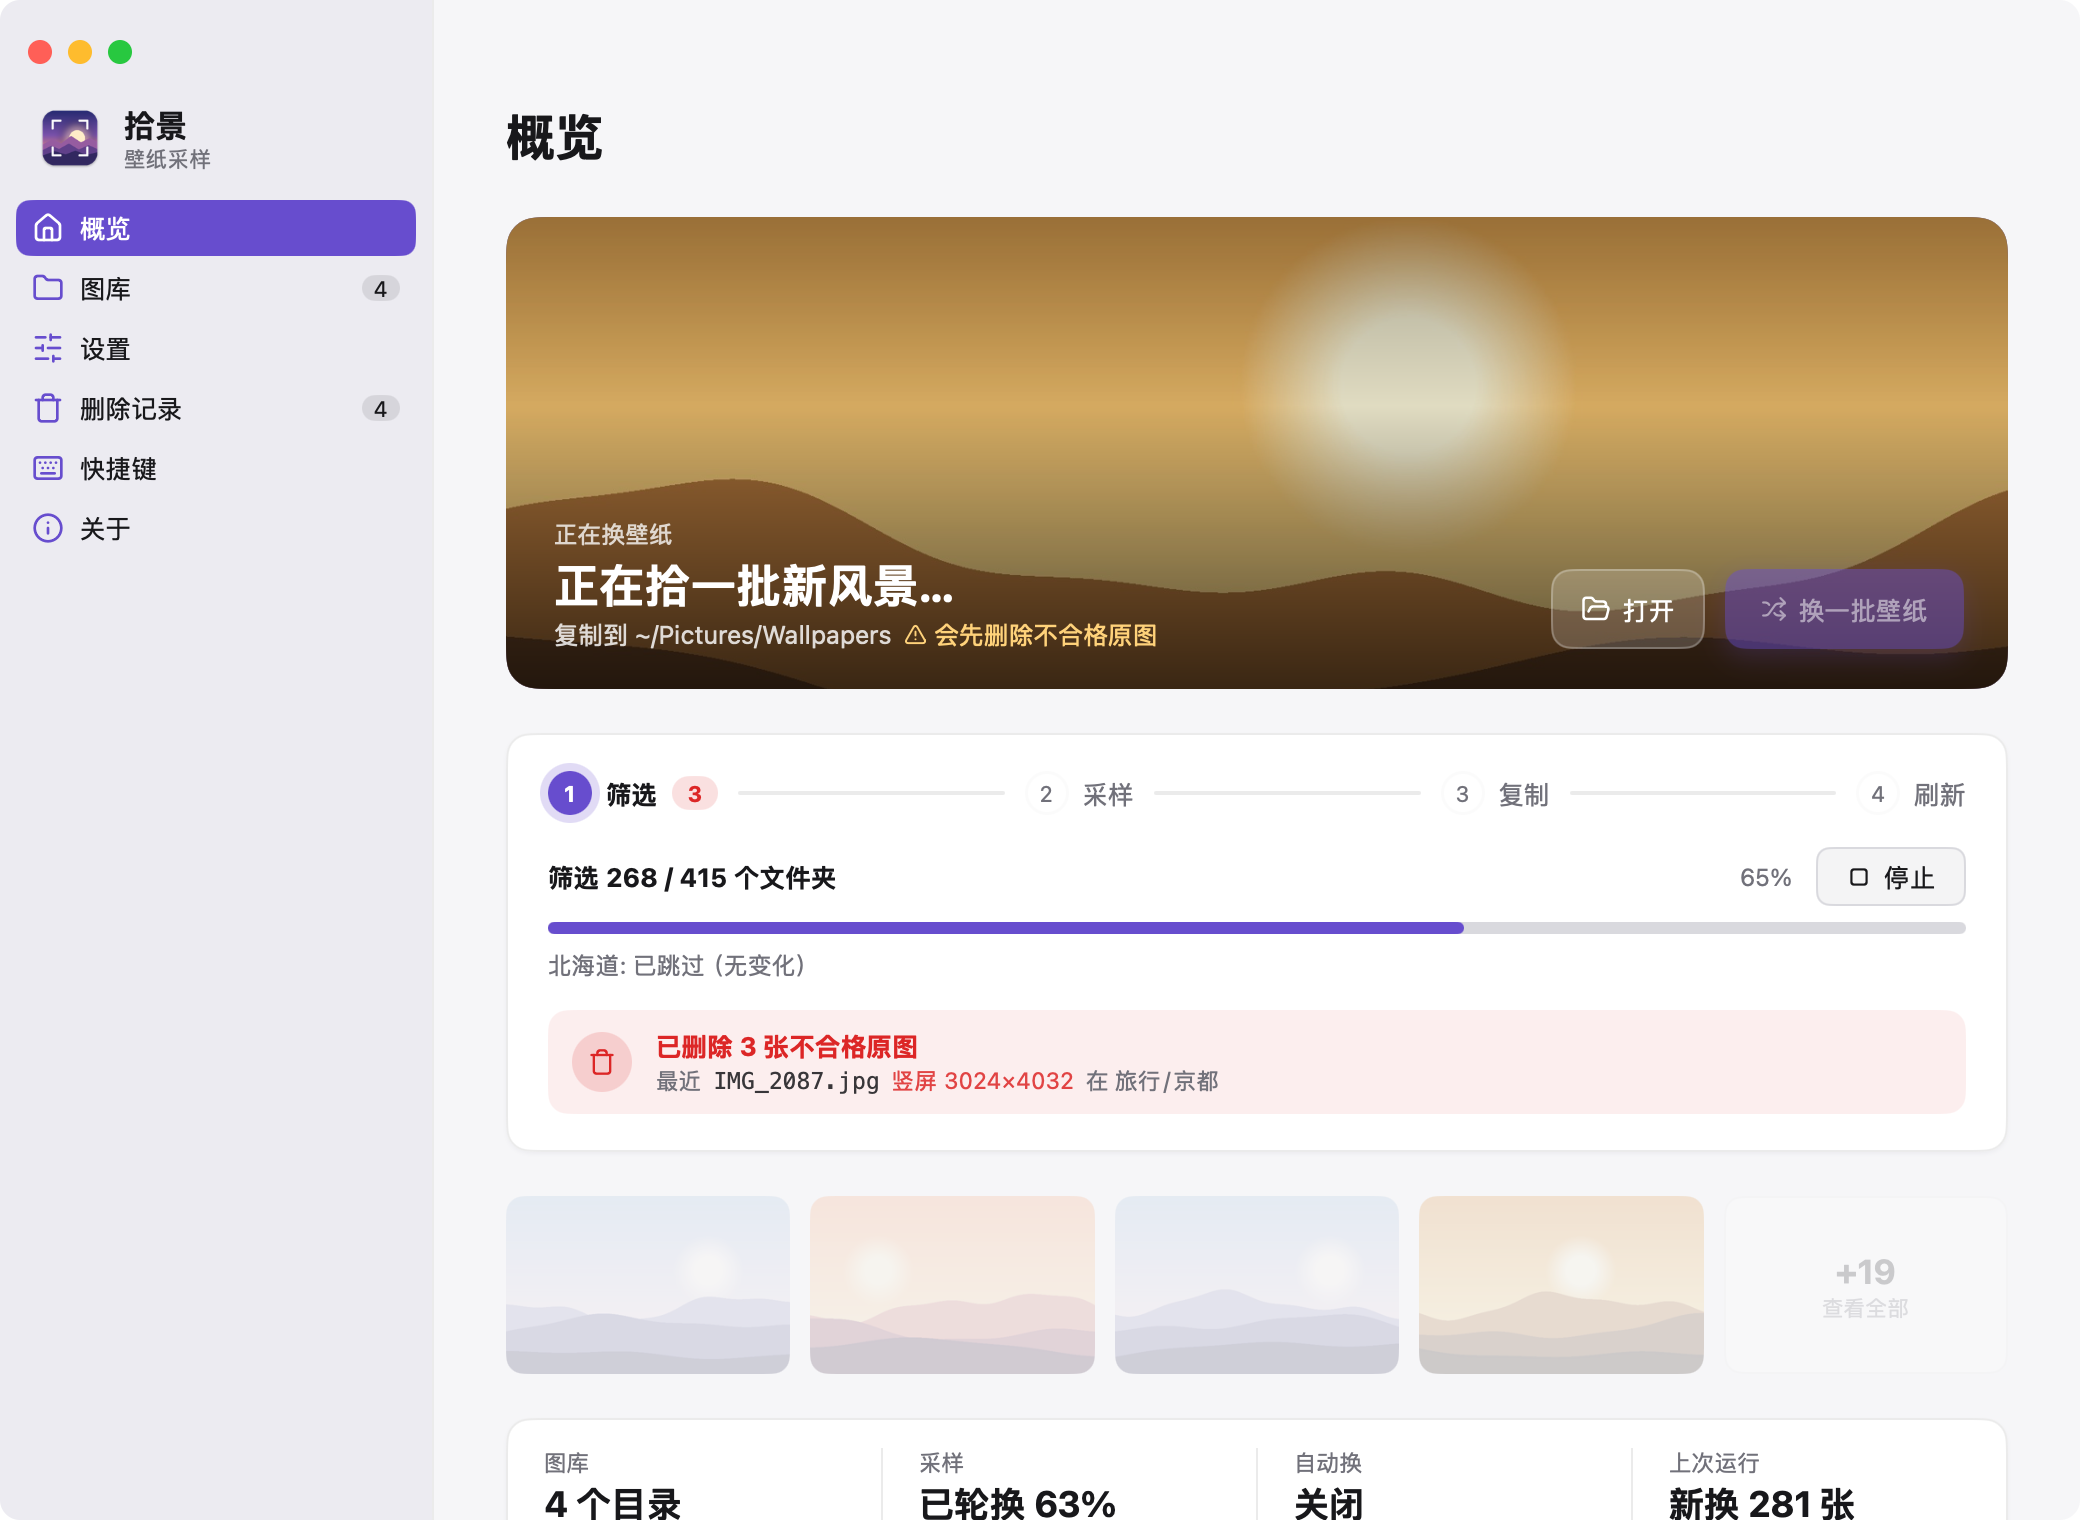
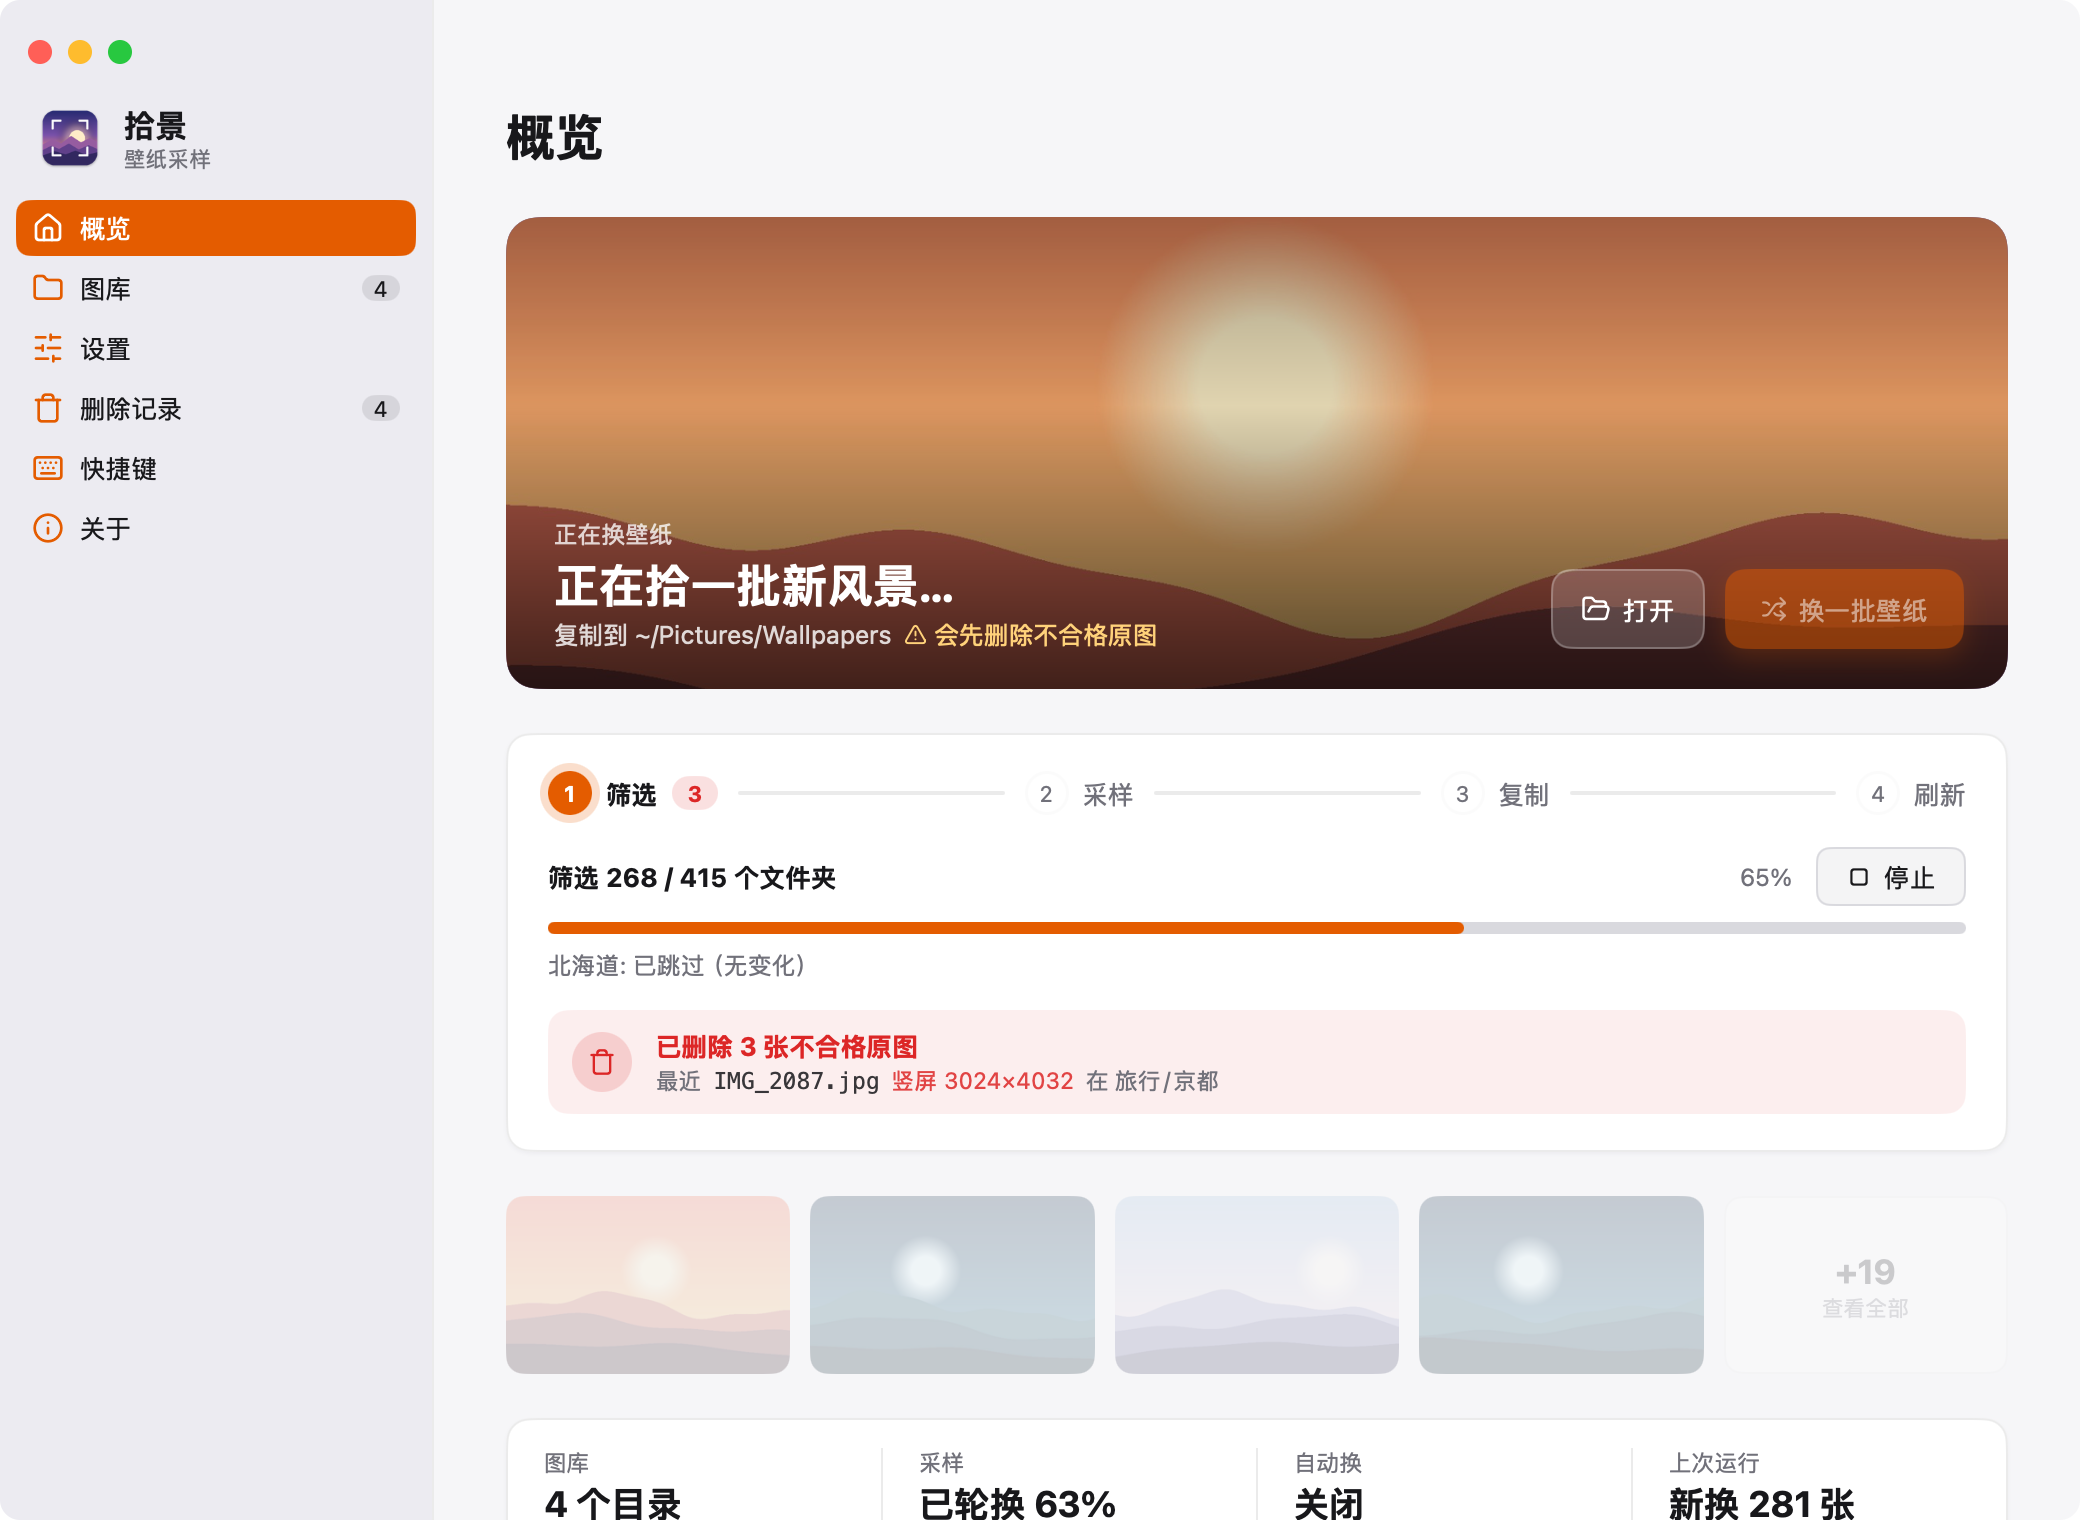
feat(拾景): 强调色改成橙色（macOS 和 iOS 一起），截图重拍，版本 v0.3.11

diff --git a/desktop/theme.go b/desktop/theme.go
@@ -4,7 +4,7 @@ import (
 	"github.com/egoist/mygo/ui"
 )
 
-// 品牌色取自应用图标：暮色紫做主色，太阳的暖黄做点缀。
+// 强调色是橙色（用户喜欢，v0.3.11 起；iOS 的 AccentColor 要保持一致）。暮色紫只用在横幅插画里，取自应用图标。
 var (
 	sunGlow   = ui.Hex("#FDE7B8")
 	duskTop   = ui.Hex("#2A2470")
@@ -25,13 +25,15 @@ const (
 func applyTheme(c *ui.Context) *ui.Theme {
 	t := *c.Theme()
 	if t.Dark {
-		t.Accent = ui.Oklch(0.62, 0.17, 288)
-		t.AccentHover = ui.Oklch(0.67, 0.17, 288)
-		t.AccentPressed = ui.Oklch(0.57, 0.17, 288)
+		// #E56900：深色底上对比度约 5:1，白字约 3.3:1（按钮文字是粗体，够用）
+		t.Accent = ui.Oklch(0.66, 0.18, 50)
+		t.AccentHover = ui.Oklch(0.71, 0.17, 52)
+		t.AccentPressed = ui.Oklch(0.61, 0.18, 48)
 	} else {
-		t.Accent = ui.Oklch(0.52, 0.19, 287)
-		t.AccentHover = ui.Oklch(0.47, 0.19, 287)
-		t.AccentPressed = ui.Oklch(0.43, 0.18, 287)
+		// #E45C00：白字约 3.6:1；再浅就发黄、白字看不清
+		t.Accent = ui.Oklch(0.64, 0.19, 47)
+		t.AccentHover = ui.Oklch(0.60, 0.19, 46)
+		t.AccentPressed = ui.Oklch(0.56, 0.18, 45)
 	}
 	t.AccentText = ui.RGB(255, 255, 255)
 	t.Focus = t.Accent.Alpha(0.5)

diff --git a/CLAUDE.md b/CLAUDE.md
@@ -63,7 +63,7 @@ NAS/网络卷上同步来的文件经常带有 `SF_ARCHIVED`（superuser-only）
 ### 11. 拾景（`desktop/`）特有的注意点
 - 依赖 MyGo v0.8.x（0.x 阶段，小版本升级可能改 API）。升级前读 `desktop/.agents/skills/mygo-maintenance/SKILL.md`，用 `go tool mygo migrate-ui .` 预览迁移；改完跑 `go tool mygo vet .` 和 `CGO_ENABLED=0 go test ./...`。
 - 配置、增量状态、删除日志、窗口位置都在 `~/Library/Application Support/拾景/`，不是仓库目录（`.app` 位置不固定，不能像 Python 版那样相对脚本目录找文件）。状态文件故意不和 Python 版共享。改名前叫「壁纸工具」，`main.go` 启动时会用 `core.MigrateDataDir` 把旧目录搬过来（新目录已存在就不动）。以后再改 `appName` 也要照此迁移，否则用户配置会"丢"。
-- 窗口用 `TitleBarHiddenInset` + `VibrancySidebar`：侧边栏顶部和内容区顶部各留了一条 `DragWindow()` 的拖拽区，侧边栏背景透明才能透出毛玻璃（`c.Vibrancy()` 为 false 时退回纯色）。配色和通用组件（`panel`/`group`/`settingRow`/`sceneArt` 插画）集中在 `theme.go`。
+- 窗口用 `TitleBarHiddenInset` + `VibrancySidebar`：侧边栏顶部和内容区顶部各留了一条 `DragWindow()` 的拖拽区，侧边栏背景透明才能透出毛玻璃（`c.Vibrancy()` 为 false 时退回纯色）。配色和通用组件（`panel`/`group`/`settingRow`/`sceneArt` 插画）集中在 `theme.go`。强调色是橙色（用户定的，v0.3.11 起：浅色 #E45C00、深色 #E56900），改的话 iOS 的 `Assets.xcassets/AccentColor` 要一起改；横幅插画的暮色紫来自应用图标，不跟强调色走。
 - 概览页缩略图由 `thumbs.go` 的 `scanWallpapers` 在后台解码缩小，`Bitmap` 回主线程再建；只读本地 `dest_dir`，运行结束 `wallsGen++` 触发重读。缩略图网格的行列数由 `stripLayout` 按**上一帧**量到的尺寸算（网格宽度定列数，滚动区高度 − 页面其余部分高度定行数，后者与行数无关所以不会来回跳），算出来变了就 `c.AnimationFrame()` 再排一帧；概览页不受 `contentMax` 限制、铺满窗口宽度。先解码 `initialThumbs` 张，放得下更多时 `loadMoreThumbs` 接着解码网格前面还没解码的（`decodeWorkers` 限并发，原图很大）。壁纸列表只有一份 `walls.all`（打乱后的顺序，横幅图也在内），缩略图按路径存在 `walls.thumbs`（值为 nil 表示读不了），网格是 `walls.grid()`（去掉横幅图和读不了的）——别再加平行的切片，移出 / 撤销只需要改 `all`。网格最后一格「+N」在预览里从第一张没显示的开始翻；Finder 里打开用横幅上的「打开」。`app.scanWallpapers` 是注入的，测试里设成 nil，界面测试不读真实目录。
 - 「换上时间」和「上次运行」来自 `ui_state.json`（`uistate.go`），**不要**改用壁纸文件夹里文件的 mtime：复制时 `copyFile` 会用 `Chtimes` 保留原图的修改时间，那是原图的时间，不是换上的时间。命令行跑的不会写这个文件。
 - v0.3.0 加的几样，改相关代码时注意：
